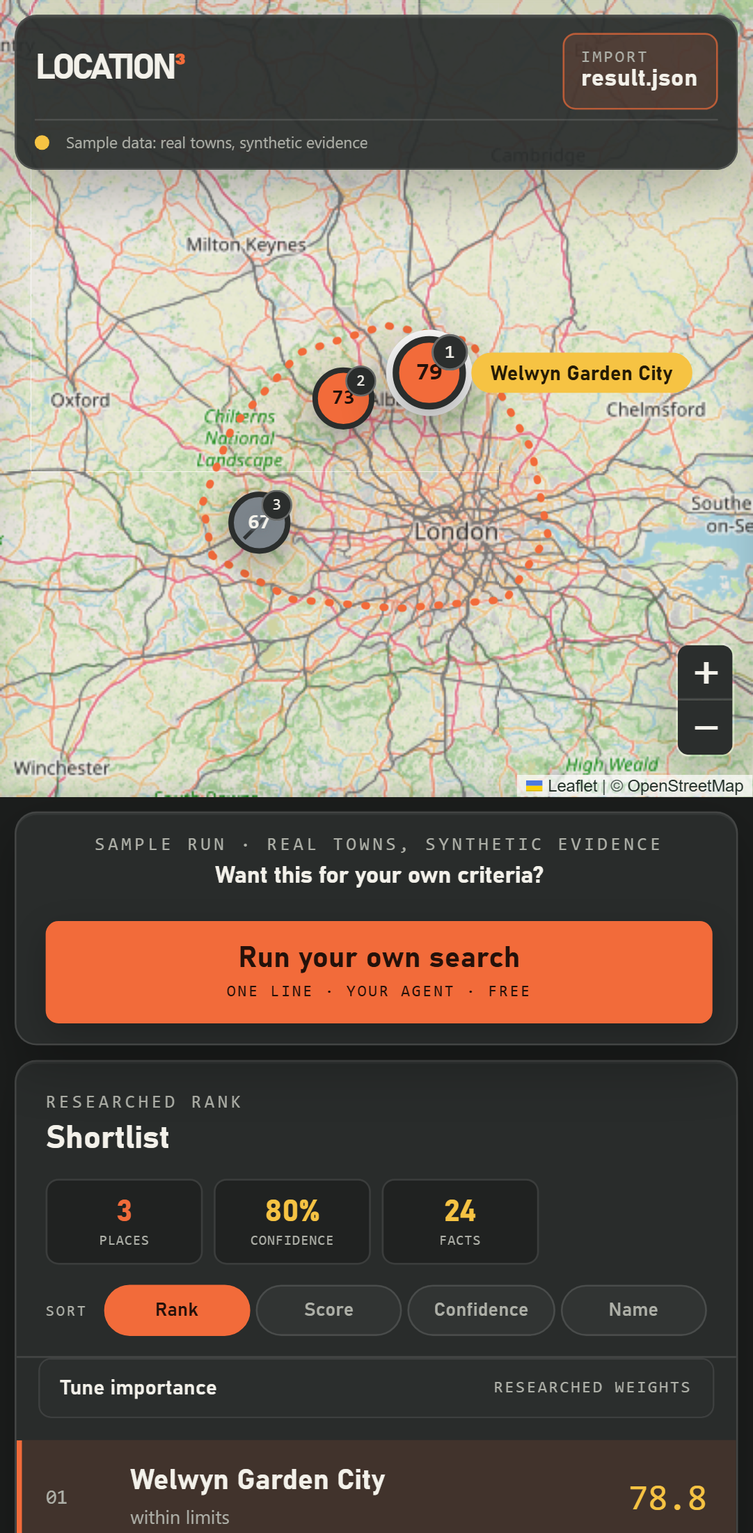
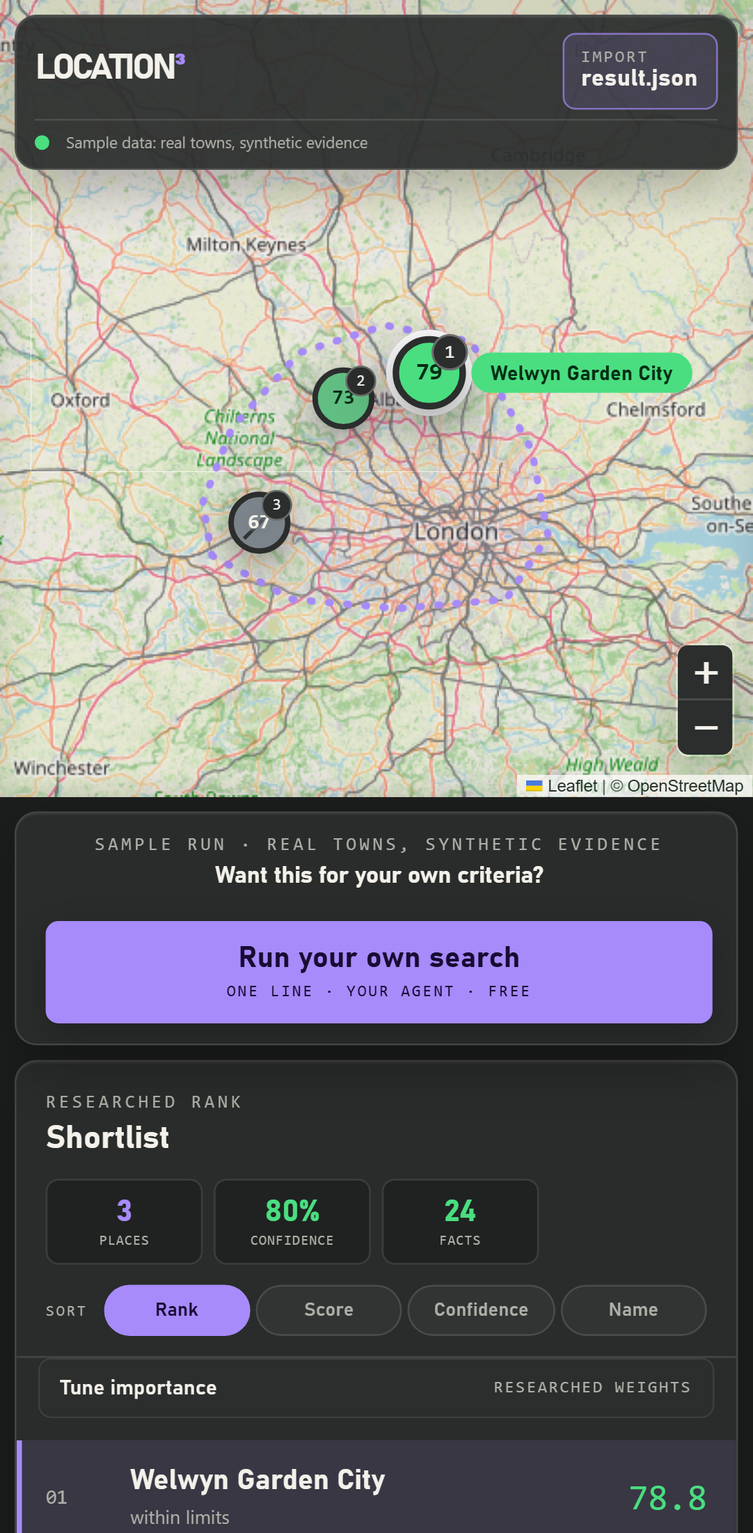
Swap to a purple and green palette with fit-graded pins
Purple takes over from orange for actions, the boundary, and borders;
green takes over from yellow for scores, names, and pills; lavender
measures. Amber now owns everything unverified. Pins within limits are
graded from a dull green to a vivid one against the lowest and highest
score in the run, with the legend swatch showing the scale and the
legend centred between the cards. README screenshots follow.

diff --git a/app/src/styles.css b/app/src/styles.css
@@ -24,13 +24,13 @@
   --panel: rgba(43, 46, 45, 0.94);
   --panel-heavy: rgba(36, 39, 38, 0.97);
   --line: rgba(255, 255, 255, 0.12);
-  --line-hot: rgba(242, 107, 58, 0.65);
-  /* Orange does, yellow says, teal measures. Coral is for a breached limit or an error; slate is for a place that is out. */
-  --primary: #f26b3a;
-  --primary-ink: #24110a;
-  --acid: #f6c343;
-  --acid-ink: #241a05;
-  --teal: #3ec5b8;
+  --line-hot: rgba(167, 139, 250, 0.65);
+  /* Purple does, green says, lavender measures. Amber is for anything unverified or a warning; coral for a breached limit or an error; slate for a place that is out. */
+  --primary: #a78bfa;
+  --primary-ink: #170c33;
+  --acid: #4ade80;
+  --acid-ink: #052e16;
+  --teal: #c4b5fd;
   --slate: #7c848b;
   --plumbob: #8be15d;
   --amber: #f6c343;
@@ -94,10 +94,10 @@ button:focus-visible, summary:focus-visible, a:focus-visible, input:focus-visibl
 .load-state.error { color: var(--danger); }.load-state.error i { background: var(--danger); }
 .load-state.error span { text-transform: none; font-family: var(--voice-text); font-size: var(--text-size); }
 .header-actions { grid-area: actions; display: flex; align-items: stretch; gap: .45rem; }
-.import-button, .utility-button { min-height: 44px; display: flex; justify-content: center; flex-direction: column; padding: .45rem .9rem; cursor: pointer; text-align: left; border: 1px solid var(--line-hot); border-radius: var(--radius-small); color: var(--ink); background: rgba(242, 107, 58, .14); }
+.import-button, .utility-button { min-height: 44px; display: flex; justify-content: center; flex-direction: column; padding: .45rem .9rem; cursor: pointer; text-align: left; border: 1px solid var(--line-hot); border-radius: var(--radius-small); color: var(--ink); background: rgba(167, 139, 250, .14); }
 .import-button span { color: var(--muted); font: .56rem var(--voice-mono); letter-spacing: .14em; text-transform: uppercase; }.import-button strong { font: 700 .82rem var(--voice-display); letter-spacing: .01em; }
 .utility-button { color: var(--ink); border-color: var(--line); background: rgba(255, 255, 255, .04); font: 600 .72rem var(--voice-display); letter-spacing: .01em; }
-.import-button:hover, .utility-button:hover { background-color: rgba(242, 107, 58, .28); color: #fff; }
+.import-button:hover, .utility-button:hover { background-color: rgba(167, 139, 250, .28); color: #fff; }
 .utility-button:disabled { cursor: default; opacity: .55; }
 
 /* The front door: a short invite over the map between the two cards, shown only while the sample is active. */
@@ -124,11 +124,11 @@ button:focus-visible, summary:focus-visible, a:focus-visible, input:focus-visibl
 .segmented .sort-key { min-height: 34px; border: 0; border-radius: 999px; background: transparent; font-size: .72rem; }
 .segmented .sort-key:hover { background: rgba(255, 255, 255, .06); }
 .start-tabs .sort-key[aria-selected="true"] { color: var(--primary-ink); background: var(--primary); border-color: var(--primary); }
-.start-command { margin-top: 1rem; padding: .7rem .75rem .75rem; border: 1px solid var(--line-hot); border-radius: var(--radius-small); background: rgba(242, 107, 58, .07); }
+.start-command { margin-top: 1rem; padding: .7rem .75rem .75rem; border: 1px solid var(--line-hot); border-radius: var(--radius-small); background: rgba(167, 139, 250, .07); }
 .start-command-head { display: flex; align-items: center; gap: .8rem; }
 .start-command-head .start-copied { margin-left: auto; }
 .copy-button { min-height: 34px; padding: .35rem .9rem; color: var(--primary-ink); background: var(--primary); border-color: var(--primary); }
-.copy-button:hover { background: #ff8455; color: var(--primary-ink); }
+.copy-button:hover { background: #c4b0ff; color: var(--primary-ink); }
 /* The line wraps rather than scrolls: a wrapped pre copies as one line and needs no focusable scroll region. */
 .start-command pre { margin: .55rem 0 0; padding: .75rem .85rem; color: var(--acid); background: #161817; border: 1px solid var(--line); border-radius: var(--radius-small); font: .82rem / 1.6 var(--voice-mono); white-space: pre-wrap; overflow-wrap: anywhere; }
 .start-copied { color: var(--amber); font: .58rem var(--voice-mono); letter-spacing: .08em; text-transform: uppercase; }
@@ -181,7 +181,7 @@ button:focus-visible, summary:focus-visible, a:focus-visible, input:focus-visibl
 .rank-list { flex: 1 1 9rem; min-height: 7rem; overflow: auto; list-style: none; margin: 0; padding: .4rem 0; scrollbar-width: thin; scrollbar-color: #4b5c50 transparent; }
 .rank-entry { width: 100%; display: grid; grid-template-columns: 2.2rem 1fr auto; align-items: center; gap: .7rem; padding: .85rem 1rem; text-align: left; color: var(--ink); background: transparent; border: 0; border-bottom: 1px solid rgba(176, 204, 184, .1); cursor: pointer; }
 .rank-entry:hover { background: rgba(255, 255, 255, .035); }
-.rank-entry[aria-pressed="true"] { background: rgba(242, 107, 58, .12); box-shadow: inset 3px 0 var(--primary); }
+.rank-entry[aria-pressed="true"] { background: rgba(167, 139, 250, .12); box-shadow: inset 3px 0 var(--primary); }
 .rank-number { color: var(--muted); font: .68rem var(--voice-mono); }.rank-copy { min-width: 0; }
 .rank-copy strong, .rank-copy small { display: block; }.rank-copy strong { font-size: .98rem; font-weight: 700; letter-spacing: 0; }
 .rank-copy small { margin-top: .2rem; color: var(--muted); font: .64rem var(--voice-text); }
@@ -273,7 +273,8 @@ button:focus-visible, summary:focus-visible, a:focus-visible, input:focus-visibl
 
 /* Score pins: sized by zoom (--pin), with a shape cue for limit status so colour is never the only signal. */
 .score-marker-shell { background: transparent !important; border: 0 !important; }
-.score-marker { --pin: 58px; position: relative; width: var(--pin); height: var(--pin); display: grid; place-items: center; border-radius: 50%; color: var(--primary-ink); background: var(--primary); border: 3px solid #2b2e2d; box-shadow: 0 6px 18px rgba(0, 0, 0, .35); transition: transform .2s ease, box-shadow .2s ease; }
+/* Within limits: green, graded from the dullest (worst fit in the run) to the most vivid (best); see fitScale. */
+.score-marker { --pin: 58px; position: relative; width: var(--pin); height: var(--pin); display: grid; place-items: center; border-radius: 50%; color: var(--acid-ink); background: var(--fit-colour, var(--acid)); border: 3px solid #2b2e2d; box-shadow: 0 6px 18px rgba(0, 0, 0, .35); transition: transform .2s ease, box-shadow .2s ease; }
 .score-marker b { position: relative; z-index: 1; font: 700 max(.7rem, calc(var(--pin) * .3)) var(--voice-mono); line-height: 1; }
 .score-marker i { position: absolute; z-index: 2; right: -4px; top: -4px; min-width: max(17px, calc(var(--pin) * .34)); height: max(17px, calc(var(--pin) * .34)); display: grid; place-items: center; border-radius: 50%; color: var(--ink); background: #2b2e2d; border: 1px solid rgba(255, 255, 255, .3); font: normal max(.55rem, calc(var(--pin) * .17)) var(--voice-mono); line-height: 1; font-style: normal; }
 .score-marker.excluded { color: #f3f1ea; background: var(--slate); }
@@ -281,13 +282,13 @@ button:focus-visible, summary:focus-visible, a:focus-visible, input:focus-visibl
 .score-marker.excluded::after { content: ""; position: absolute; left: 6%; right: 6%; top: calc(50% - 1px); height: 2px; background: #1c1e1d; opacity: .8; transform: rotate(-45deg); pointer-events: none; }
 .score-marker.excluded b { text-shadow: 0 0 2px var(--slate), 0 0 3px var(--slate), 0 0 5px var(--slate); }
 /* Unverified: a dashed ring. */
-.score-marker.unverified { color: var(--acid-ink); background: var(--acid); border-style: dashed; }
+.score-marker.unverified { color: var(--acid-ink); background: var(--amber); border-style: dashed; }
 .score-marker.selected { transform: scale(1.18); box-shadow: 0 8px 24px rgba(0, 0, 0, .45), 0 0 0 3px #fff; }
 
 /* Below 1050px the disclosure stays in the header in a compact form; nothing about the load state is ever hidden. */
 @media (max-width: 1050px) {
   .dossier { width: 370px; }.rank-panel { width: 270px; }
-  .start-banner { left: 298px; right: 398px; flex-direction: column; align-items: stretch; text-align: center; }.start-banner h2 { font-size: .8rem; }
+  .start-banner { left: 298px; right: 398px; flex-direction: column; align-items: stretch; text-align: center; }.start-banner h2 { font-size: .8rem; }.map-legend { left: 298px; right: 398px; }
   .instrument-header { grid-template-columns: auto minmax(7rem, 1fr) minmax(0, 1.5fr) auto; gap: .8rem; }
   .load-state { font-size: .56rem; }
   .sort-keys { grid-template-columns: repeat(4, minmax(0, 1fr)); }.sort-keys-label { display: none; }
@@ -352,7 +353,7 @@ button:focus-visible, summary:focus-visible, a:focus-visible, input:focus-visibl
 
 /* The place card: pops open over the map when a place is picked. Photo with the credit in the corner, rank, limit badge, three facts, a way into the evidence. */
 .place-card { position: absolute; z-index: 1100; /* above Leaflet's controls; the map's own stacking context keeps it under every card and modal */ left: 338px; bottom: 44px; width: min(360px, calc(100% - 800px)); overflow: hidden; background: var(--panel-heavy); border: 1px solid var(--line); border-radius: var(--radius); box-shadow: 0 18px 44px rgba(0, 0, 0, .4); }
-.place-card-photo { position: relative; aspect-ratio: 16 / 10; overflow: hidden; background: linear-gradient(135deg, rgba(242, 107, 58, .35), rgba(43, 46, 45, .2) 55%, rgba(246, 195, 67, .3)); }
+.place-card-photo { position: relative; aspect-ratio: 16 / 10; overflow: hidden; background: linear-gradient(135deg, rgba(167, 139, 250, .35), rgba(43, 46, 45, .2) 55%, rgba(74, 222, 128, .3)); }
 .place-card-photo img { display: block; width: 100%; height: 100%; object-fit: cover; }
 .place-card-photo::after { content: ""; position: absolute; inset: 0; pointer-events: none; background: linear-gradient(180deg, rgba(0, 0, 0, .22), transparent 35%, transparent 60%, rgba(0, 0, 0, .45)); }
 .place-card-photo > :not(img) { z-index: 1; }
@@ -362,7 +363,7 @@ button:focus-visible, summary:focus-visible, a:focus-visible, input:focus-visibl
 .place-card-badge.unknown { color: var(--acid-ink); background: var(--amber); border-color: var(--amber); }
 .place-card-close { position: absolute; top: .6rem; right: .6rem; display: grid; place-items: center; width: 30px; height: 30px; color: var(--ink); background: rgba(28, 30, 29, .85); border: 1px solid rgba(255, 255, 255, .18); border-radius: 50%; font: 1.05rem/1 var(--voice-display); cursor: pointer; }
 .place-card-close:hover { background: #161817; color: #fff; }
-.place-card-name { position: absolute; left: .6rem; bottom: .6rem; margin: 0; padding: .32rem .7rem; color: var(--acid-ink); background: var(--amber); border-radius: 8px; font: 800 1rem var(--voice-display); box-shadow: 0 2px 8px rgba(0, 0, 0, .35); }
+.place-card-name { position: absolute; left: .6rem; bottom: .6rem; margin: 0; padding: .32rem .7rem; color: var(--acid-ink); background: var(--acid); border-radius: 8px; font: 800 1rem var(--voice-display); box-shadow: 0 2px 8px rgba(0, 0, 0, .35); }
 .place-card-credit { position: absolute; right: .6rem; bottom: .65rem; max-width: 46%; overflow: hidden; padding: .2rem .5rem; color: #e8eee9; background: rgba(28, 30, 29, .8); border-radius: 6px; font: .56rem var(--voice-mono); text-decoration: none; text-overflow: ellipsis; white-space: nowrap; }
 .place-card-credit:hover { text-decoration: underline; }
 .place-card-facts { display: grid; grid-template-columns: auto repeat(3, minmax(0, 1fr)); gap: .4rem; margin: 0; padding: .7rem .75rem .5rem; }
@@ -388,7 +389,7 @@ button:focus-visible, summary:focus-visible, a:focus-visible, input:focus-visibl
 .stat-tiles strong { color: var(--acid); font: 800 1.05rem var(--voice-display); }
 .stat-tiles > div:first-child strong { color: var(--primary); }
 .stat-tiles span { margin-top: .1rem; color: var(--muted); font: .47rem/1.25 var(--voice-mono); letter-spacing: .06em; text-transform: uppercase; overflow-wrap: anywhere; }
-.limit-line.fail { color: var(--danger); }.limit-line.unknown { color: var(--acid); }
+.limit-line.fail { color: var(--danger); }.limit-line.unknown { color: var(--amber); }
 
 /* Section colours: each scoring category carries one colour through the evidence panel and the tune panel. */
 .category-block { --section: var(--muted); }
@@ -406,10 +407,11 @@ button:focus-visible, summary:focus-visible, a:focus-visible, input:focus-visibl
 .score-marker.selected + .pin-label { color: var(--acid-ink); background: var(--acid); border-color: var(--acid); }
 
 /* Legend: a pill at the bottom of the map; the place card takes its spot while open. */
-.map-legend { position: absolute; z-index: 1000; left: 50%; bottom: 44px; transform: translateX(-50%); display: flex; gap: .9rem; margin: 0; padding: .45rem .9rem; list-style: none; color: var(--ink); background: var(--panel-heavy); border: 1px solid var(--line); border-radius: 999px; box-shadow: 0 8px 24px rgba(0, 0, 0, .3); font: .68rem var(--voice-text); white-space: nowrap; }
+.map-legend { position: absolute; z-index: 1000; left: 338px; right: 448px; bottom: 44px; width: max-content; max-width: 100%; margin: 0 auto; display: flex; flex-wrap: wrap; justify-content: center; row-gap: .25rem; column-gap: .9rem; padding: .45rem .9rem; list-style: none; color: var(--ink); background: var(--panel-heavy); border: 1px solid var(--line); border-radius: 999px; box-shadow: 0 8px 24px rgba(0, 0, 0, .3); font: .68rem var(--voice-text); white-space: nowrap; }
 .map-legend li { display: flex; align-items: center; gap: .4rem; }
-.legend-pin { width: 12px; height: 12px; border-radius: 50%; background: var(--primary); border: 2px solid #2b2e2d; }
-.legend-pin.unverified { background: var(--acid); border-style: dashed; }
+.legend-pin { width: 12px; height: 12px; border-radius: 50%; background: var(--acid); border: 2px solid #2b2e2d; }
+.legend-pin.valid { width: 24px; border-radius: 6px; background: linear-gradient(90deg, #7a9b85, #4ade80); }
+.legend-pin.unverified { background: var(--amber); border-style: dashed; }
 .legend-pin.excluded { background: var(--slate); }
 .legend-line { width: 20px; height: 4px; background: radial-gradient(circle, var(--primary) 1.6px, transparent 1.9px) 0 0 / 5px 4px repeat-x; }
 .place-card ~ .map-legend { display: none; }

diff --git a/app/src/components/MapView.tsx b/app/src/components/MapView.tsx
@@ -4,13 +4,13 @@ import L from "leaflet";
 import { GeoJSON, MapContainer, Marker, TileLayer, ZoomControl, useMap, useMapEvents } from "react-leaflet";
 import "leaflet/dist/leaflet.css";
 
-import { pinSizeForZoom } from "../lib/pins";
+import { fitColour, fitScale, pinSizeForZoom } from "../lib/pins";
 import type { CandidateResult, ConstraintStatus, RouteBoundary } from "../types";
 
-// The search boundary is the one vector besides the pins: a dotted orange line with a whisper of fill.
+// The search boundary is the one vector besides the pins: a dotted purple line with a whisper of fill.
 const BOUNDARY_STYLE = {
-  color: "#f26b3a", weight: 4, opacity: 1, dashArray: "1 9", lineCap: "round" as const,
-  fillColor: "#f26b3a", fillOpacity: 0.04, className: "search-boundary",
+  color: "#a78bfa", weight: 4, opacity: 1, dashArray: "1 9", lineCap: "round" as const,
+  fillColor: "#a78bfa", fillOpacity: 0.05, className: "search-boundary",
 };
 
 const MARKER_STATE: Record<ConstraintStatus, string> = { pass: "valid", unknown: "unverified", fail: "excluded" };
@@ -34,6 +34,8 @@ export function MapView({ candidates, fieldKey, routeBoundary, selectedId, onSel
   const first = candidates[0].location;
   const [zoom, setZoom] = useState(9);
   const pinSize = pinSizeForZoom(zoom);
+  // Pins within limits are graded green against the whole run: the best fit is the most vivid.
+  const fit = fitScale(candidates.map((candidate) => candidate.overall_score));
   return (
     <section className="map-field" aria-label="Candidate map">
       <MapContainer
@@ -68,7 +70,7 @@ export function MapView({ candidates, fieldKey, routeBoundary, selectedId, onSel
             <Marker
               key={candidate.id}
               position={[candidate.location.latitude, candidate.location.longitude]}
-              icon={scoreIcon(candidate, selected, pinSize)}
+              icon={scoreIcon(candidate, selected, pinSize, fit(candidate.overall_score))}
               zIndexOffset={selected ? 1000 : 0}
               title={`${candidate.name}: rank ${candidate.rank}, score ${candidate.overall_score.toFixed(1)}, ${MARKER_TEXT[candidate.hard_constraints.status]}`}
               alt={`${candidate.name}, ${MARKER_TEXT[candidate.hard_constraints.status]}`}
@@ -79,7 +81,7 @@ export function MapView({ candidates, fieldKey, routeBoundary, selectedId, onSel
       </MapContainer>
       {overlay}
       <ul className="map-legend" aria-label="Map key">
-        <li><i className="legend-pin valid" aria-hidden="true" />Within limits</li>
+        <li><i className="legend-pin valid" aria-hidden="true" />Within limits, greener fits better</li>
         <li><i className="legend-pin unverified" aria-hidden="true" />Limit unverified</li>
         <li><i className="legend-pin excluded" aria-hidden="true" />Outside limit</li>
         <li><i className="legend-line" aria-hidden="true" />Search area</li>
@@ -154,13 +156,13 @@ function escapeHtml(value: string): string {
   return value.replace(/[&<>"']/g, (char) => ({ "&": "&amp;", "<": "&lt;", ">": "&gt;", '"': "&quot;", "'": "&#39;" })[char] ?? char);
 }
 
-function scoreIcon(candidate: CandidateResult, selected: boolean, size: number): L.DivIcon {
+function scoreIcon(candidate: CandidateResult, selected: boolean, size: number, fit: number): L.DivIcon {
   const state = MARKER_STATE[candidate.hard_constraints.status];
   const score = Math.round(candidate.overall_score);
   const half = size / 2;
   return L.divIcon({
     className: "score-marker-shell",
-    html: `<span class="score-marker ${state}${selected ? " selected" : ""}" style="--pin:${size}px"><b>${score}</b><i>${candidate.rank}</i></span>`
+    html: `<span class="score-marker ${state}${selected ? " selected" : ""}" style="--pin:${size}px;--fit:${fit.toFixed(2)};--fit-colour:${fitColour(fit)}"><b>${score}</b><i>${candidate.rank}</i></span>`
       + `<span class="pin-label" aria-hidden="true">${escapeHtml(candidate.name)}</span>`,
     iconSize: [size, size],
     iconAnchor: [half, half],

diff --git a/app/src/lib/pins.ts b/app/src/lib/pins.ts
@@ -4,3 +4,31 @@ export function pinSizeForZoom(zoom: number): number {
   if (zoom <= 10) return 46;
   return 58;
 }
+
+/** The dullest and the most vivid green a pin can be: the worst and the best fit in the run. */
+export const FIT_LOW = "#7a9b85";
+export const FIT_HIGH = "#4ade80";
+
+/**
+ * Where a score sits between the lowest and the highest score in the run, 0 to 1.
+ * A run of one place, or of equal scores, is all best: there is nothing to be worse than.
+ */
+export function fitScale(scores: readonly number[]): (score: number) => number {
+  const low = Math.min(...scores);
+  const high = Math.max(...scores);
+  if (!Number.isFinite(low) || !Number.isFinite(high) || high - low < 1e-9) return () => 1;
+  return (score) => Math.min(1, Math.max(0, (score - low) / (high - low)));
+}
+
+/** The pin green for a fit fraction: a straight mix from FIT_LOW to FIT_HIGH. */
+export function fitColour(fraction: number): string {
+  const t = Math.min(1, Math.max(0, fraction));
+  const mix = (a: number, b: number) => Math.round(a + (b - a) * t);
+  const [lr, lg, lb] = channels(FIT_LOW);
+  const [hr, hg, hb] = channels(FIT_HIGH);
+  return `#${[mix(lr, hr), mix(lg, hg), mix(lb, hb)].map((c) => c.toString(16).padStart(2, "0")).join("")}`;
+}
+
+function channels(hex: string): [number, number, number] {
+  return [1, 3, 5].map((i) => parseInt(hex.slice(i, i + 2), 16)) as [number, number, number];
+}

diff --git a/app/src/lib/pins.test.ts b/app/src/lib/pins.test.ts
@@ -1,0 +1,38 @@
+import { FIT_HIGH, FIT_LOW, fitColour, fitScale, pinSizeForZoom } from "./pins";
+
+describe("pin size", () => {
+  it("shrinks as the field widens", () => {
+    expect(pinSizeForZoom(8)).toBeLessThan(pinSizeForZoom(10));
+    expect(pinSizeForZoom(10)).toBeLessThan(pinSizeForZoom(12));
+  });
+});
+
+describe("fit scale", () => {
+  it("places each score between the lowest and highest in the run", () => {
+    const fit = fitScale([67.1, 78.8, 73.2]);
+    expect(fit(78.8)).toBe(1);
+    expect(fit(67.1)).toBe(0);
+    expect(fit(73.2)).toBeCloseTo(0.521, 3);
+  });
+
+  it("calls a run of one place, or of equal scores, all best", () => {
+    expect(fitScale([70])(70)).toBe(1);
+    expect(fitScale([70, 70])(70)).toBe(1);
+    expect(fitScale([])(70)).toBe(1);
+  });
+
+  it("clamps a score outside the run", () => {
+    const fit = fitScale([60, 80]);
+    expect(fit(90)).toBe(1);
+    expect(fit(10)).toBe(0);
+  });
+});
+
+describe("fit colour", () => {
+  it("runs from the dull green to the vivid one", () => {
+    expect(fitColour(0)).toBe(FIT_LOW);
+    expect(fitColour(1)).toBe(FIT_HIGH);
+    expect(fitColour(0.5)).toBe("#62bd83");
+    expect(fitColour(2)).toBe(FIT_HIGH);
+  });
+});

diff --git a/app/e2e/viewer.spec.ts b/app/e2e/viewer.spec.ts
@@ -10,6 +10,9 @@ test.beforeEach(async ({ page }) => {
 test("map, ranked list, and dossier stay synchronized", async ({ page }) => {
   await expect(page.getByLabel("Location cubed")).toBeVisible();
   await expect(page.locator(".score-marker")).toHaveCount(3);
+  // Pins within limits are graded green against the run: the best fit is the most vivid, the rest sit between.
+  await expect(page.locator('.leaflet-marker-icon[title^="Welwyn"] .score-marker')).toHaveAttribute("style", /--fit:1\.00;--fit-colour:#4ade80/);
+  await expect(page.locator('.leaflet-marker-icon[title^="Hemel"] .score-marker')).toHaveAttribute("style", /--fit:0\.52;/);
   await page.getByRole("button", { name: /Hemel Hempstead/ }).click();
   await expect(page.getByRole("heading", { name: "Hemel Hempstead" })).toBeVisible();
   await expect(page.locator(".score-marker.selected b")).toHaveText("73");

diff --git a/app/src/lib/palette.ts b/app/src/lib/palette.ts
@@ -6,7 +6,7 @@ import type { ResearchResult } from "../types";
  * so they are stable for a bundle however its candidates order their
  * categories, and they cycle if a run has more categories than colours.
  */
-export const SECTION_COLOURS = ["#f26b3a", "#3ec5b8", "#a99cff", "#f6c343", "#ff6fa5", "#5aa9ff"] as const;
+export const SECTION_COLOURS = ["#a78bfa", "#4ade80", "#f472b6", "#2dd4bf", "#c084fc", "#a3e635"] as const;
 
 export function sectionColours(categories: Iterable<string>): Map<string, string> {
   const names = [...new Set(categories)].sort((left, right) => left.localeCompare(right));

diff --git a/app/e2e/visual-contract.spec.ts b/app/e2e/visual-contract.spec.ts
@@ -24,7 +24,7 @@ test("preserves the instrument layout and colour contract", async ({ page }) => 
     };
   });
   expect(tokens).toEqual({
-    acid: "#f6c343",
+    acid: "#4ade80",
     danger: "#ff7a6b",
     panel: "rgba(43, 46, 45, 0.94)",
   });

diff --git a/MUSINGS.md b/MUSINGS.md
@@ -1095,6 +1095,12 @@ After the reskin Luke sent two things: a screenshot of his Aotearoa 2026 trip pl
 - Luke's call: the original map, the tiniest vignette around the edges, and a dotted orange line. So the focus mask, its SVG filters, and the blend modes are gone entirely; there is no second tile host. The boundary is a dotted orange line (`dashArray` "1 9", round caps, 4px) with a four-percent fill, and a `box-shadow` inset of 22px at fourteen-percent opacity sits below the pins as the whole vignette.
 - Lesson, kept for next time: every attempt to make the outside look different from the inside made the map worse on some device. One basemap, one line, and the pins pointing is what a map wants.
 
+### P37 completion note (purple does, green says)
+
+- Luke asked for a modern green and purple palette in place of the orange and yellow. The tokens carry it: `--primary` is now violet (`#a78bfa`, ink `#170c33`) for the call to action, buttons, selected keys, slider thumbs, the rank circle, the dotted boundary, and pins within limits; `--acid` is green (`#4ade80`, ink `#052e16`) for scores, the fit dial, name pills, and the status light; the measures colour is lavender (`#c4b5fd`) for confidence and category bars. Amber keeps its job and now owns the unverified pin, the unverified legend swatch, and the unverified limit line, which had borrowed the yellow. Coral and slate are unchanged.
+- Section colours cycle violet, green, pink, teal, purple, lime. The photo card's name pill takes the green rather than the warning amber.
+- Then Luke asked that 79 look greener than 73, relative to the run. Pins within limits are now graded from a dull green (`#7a9b85`, the lowest score in the run) to the vivid one (`#4ade80`, the highest), mixed in RGB by `fitScale` and `fitColour` in `pins.ts` over every candidate's score, excluded places included, so the spread is the whole run's. A run of one place, or of equal scores, is all vivid. The legend's swatch is the gradient and says greener fits better, and the legend now centres in the gap between the two cards, as the banner does, rather than on the viewport, since the longer label ran under the evidence card. Unverified pins stay amber and dashed; a place outside its limits keeps the slate pin and the strike, since colour must never suggest it is in.
+
 ### Decisions
 
 - The viewer's network rule is unchanged: map tiles only. Photos are files beside the run, served by the loopback server or bundled with the demo.
@@ -1105,9 +1111,9 @@ After the reskin Luke sent two things: a screenshot of his Aotearoa 2026 trip pl
 
 ### State
 
-- The viewer is bright and warm: a full-colour map with a dotted orange boundary and a barely-there edge vignette, charcoal cards, orange for actions, yellow for numbers and names, teal for measures, a colour per category, stat tiles, a key, and a name beside every pin.
+- The viewer is bright and modern: a full-colour map with a dotted purple boundary and a barely-there edge vignette, charcoal cards, purple for actions, green for numbers and names, lavender for measures, amber for anything unverified, a colour per category, stat tiles, a key, and a name beside every pin.
 - Picking a place pops open a card with its photo, author and licence, rank, limit badge, four facts, and a way into the evidence. Photos are cited evidence fetched on the user's machine by an opt-in, previewed, cached command that works for any place the pipeline produces; the demo carries three real ones.
-- Twenty commits after 0f4bb4d, none pushed. Python: 94 tests, ruff clean. Viewer: 87 Vitest tests, 46 Playwright tests with axe clean, CI grep clean on the build.
+- Twenty-two commits after 0f4bb4d, none pushed. Python: 94 tests, ruff clean. Viewer: 87 Vitest tests, 46 Playwright tests with axe clean, CI grep clean on the build.
 
 ### Not yet done
 

diff --git a/README.md b/README.md
@@ -69,7 +69,7 @@ and never claims a property exists because an area looks affordable.
 
 | Part | What it tells you |
 | --- | --- |
-| **Map** | A full-colour map with the search area ringed by a dotted orange line, numbered score pins with the place's name beside each, and a key. OpenStreetMap basemap with visible attribution. |
+| **Map** | A full-colour map with the search area ringed by a dotted purple line, numbered score pins with the place's name beside each, graded green from the run's worst fit to its best, and a key. OpenStreetMap basemap with visible attribution. |
 | **Place card** | Pops open when you pick a pin or a row: the place's photo with its author and licence, rank, limit badge, fit, commute, typical price, the strongest everyday signal, and a way into the evidence. Photos come from the optional photos command below; a bundle without them gets a gradient. |
 | **Shortlist** | Places, drive limit, average confidence, and fact count at a glance; then researched rank, hard-limit status (clear, unverified, or breached), measured share when a weighted category has no evidence, score. Sort by recommendation, suitability, confidence, or name without changing rank numbers. |
 | **Tune importance** | Sliders that preview a what-if order using the scorer's own arithmetic. Bright amber scores and the footer say a preview is active; researched ranks stay put. |
